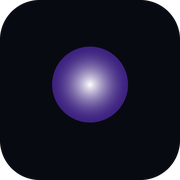
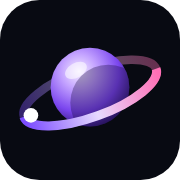
Compartilhamento e marca: imagem de preview com os 4 projetos e planeta novo no header
og.jpg 1200x630 (110 KB) com prints de GateCheck, WSL, Rare7 e FLASH, textos
com acento e o FLASH na descricao. Icone do header em SVG no botao (anel em
degrade, sombra, lua orbitando) e favicon no mesmo desenho.

diff --git a/index.html b/index.html
@@ -5,7 +5,7 @@
 <meta charset="utf-8"/>
 <meta content="width=device-width,initial-scale=1" name="viewport"/>
 <title>Lucas Chacon — Full Stack Developer</title>
-<meta content="Portfolio de Lucas Chacon — desenvolvedor full stack. Web, APIs, mobile, seguranca e produtos em producao." name="description"/>
+<meta content="Portfólio de Lucas Chacon — desenvolvedor full stack. Web, APIs, mobile, segurança e produtos em produção." name="description"/>
 <link href="/favicon.svg" rel="icon" type="image/svg+xml"/>
 <link href="/favicon-32.png" rel="icon" sizes="32x32" type="image/png"/>
 <link href="/apple-touch-icon.png" rel="apple-touch-icon" sizes="180x180"/>
@@ -13,16 +13,18 @@
 <meta content="website" property="og:type"/>
 <meta content="https://portfolio-delta-five-78.vercel.app/" property="og:url"/>
 <meta content="Lucas Chacon — Full Stack Developer" property="og:title"/>
-<meta content="Desenvolvedor full stack. Web, APIs, mobile, seguranca e produtos em producao — GateCheck, WSL Games e Rare7." property="og:description"/>
-<meta content="https://portfolio-delta-five-78.vercel.app/og.png" property="og:image"/>
+<meta content="Desenvolvedor full stack. Web, APIs, mobile, segurança e produtos em produção — GateCheck, WSL Games, Rare7 e FLASH." property="og:description"/>
+<meta content="https://portfolio-delta-five-78.vercel.app/og.jpg" property="og:image"/>
 <meta content="1200" property="og:image:width"/>
 <meta content="630" property="og:image:height"/>
+<meta content="image/jpeg" property="og:image:type"/>
+<meta content="Lucas Chacon, Full Stack Developer, com os projetos GateCheck, WSL Games, Rare7 e FLASH" property="og:image:alt"/>
 <meta content="pt_BR" property="og:locale"/>
 <meta content="Lucas Chacon" property="og:site_name"/>
 <meta content="summary_large_image" name="twitter:card"/>
 <meta content="Lucas Chacon — Full Stack Developer" name="twitter:title"/>
-<meta content="Desenvolvedor full stack. Web, APIs, mobile, seguranca e produtos em producao — GateCheck, WSL Games e Rare7." name="twitter:description"/>
-<meta content="https://portfolio-delta-five-78.vercel.app/og.png" name="twitter:image"/>
+<meta content="Desenvolvedor full stack. Web, APIs, mobile, segurança e produtos em produção — GateCheck, WSL Games, Rare7 e FLASH." name="twitter:description"/>
+<meta content="https://portfolio-delta-five-78.vercel.app/og.jpg" name="twitter:image"/>
 <style>
 
 :root{
@@ -4808,7 +4810,7 @@ html,body{margin:0;min-height:100%;background:#05060b!important}
 <canvas aria-hidden="true" class="universe-stars" id="universeStars"></canvas>
 <a class="pular-para-conteudo" href="#conteudo">Pular para o conteúdo</a>
 <nav>
-<button aria-label="Voltar ao topo" class="brand brand-full" id="brandHome" onclick="window.scrollTo({top:0,behavior:'smooth'})" type="button"><span>LUCAS</span><span>CHACON</span></button>
+<button aria-label="Voltar ao topo" class="brand brand-full" id="brandHome" onclick="window.scrollTo({top:0,behavior:'smooth'})" type="button"><svg class="brand-ico" viewBox="0 0 64 64" aria-hidden="true" focusable="false"><defs><radialGradient id="bi-p" cx="36%" cy="30%" r="75%"><stop offset="0" stop-color="#f4ecff"/><stop offset=".3" stop-color="#c3a2ff"/><stop offset=".68" stop-color="#7a45ee"/><stop offset="1" stop-color="#2c1668"/></radialGradient><linearGradient id="bi-a" x1="0" y1="0" x2="1" y2="0"><stop offset="0" stop-color="#7c4dff"/><stop offset=".5" stop-color="#e6d9ff"/><stop offset="1" stop-color="#ff6fb5"/></linearGradient><clipPath id="bi-c"><circle cx="32" cy="31" r="14"/></clipPath><clipPath id="bi-f"><rect x="0" y="33" width="64" height="31"/></clipPath><path id="bi-o" d="M7 33a25 8.6 0 1 0 50 0a25 8.6 0 1 0 -50 0"/></defs><g class="bi-anel" transform="rotate(-20 32 33)"><ellipse cx="32" cy="33" rx="25" ry="8.6" fill="none" stroke="url(#bi-a)" stroke-width="3" opacity=".38"/></g><circle cx="32" cy="31" r="14" fill="url(#bi-p)"/><circle cx="38.5" cy="36.5" r="13.5" fill="#1a0b40" opacity=".34" clip-path="url(#bi-c)"/><ellipse cx="27" cy="25" rx="4.2" ry="2.6" fill="#fff" opacity=".55" transform="rotate(-30 27 25)"/><g class="bi-anel" transform="rotate(-20 32 33)" clip-path="url(#bi-f)"><ellipse cx="32" cy="33" rx="25" ry="8.6" fill="none" stroke="url(#bi-a)" stroke-width="3.2"/></g><g transform="rotate(-20 32 33)"><circle class="bi-lua" r="2.6" fill="#fff"><animateMotion dur="9s" repeatCount="indefinite" rotate="0"><mpath href="#bi-o"/></animateMotion></circle></g></svg><span>LUCAS</span><span>CHACON</span></button>
 <div class="nav-actions">
 <div class="theme-switcher">
 <button class="theme-choice active" data-theme="editorial">Editorial</button>
@@ -7243,21 +7245,17 @@ if(mount){
 .stack-proof-card small{display:block;margin-bottom:6px}
 .stack-proof-card strong{display:block;font-weight:600}
 
-/* Marca do header passa a usar o mesmo icone do favicon, em vez do monograma:
-   um simbolo so nos dois lugares. */
-#brandHome::before{
-  content:"";
-  width:32px;height:32px;
-  background:url("/favicon.svg") center/contain no-repeat;
-  border:0!important;
-  box-shadow:none!important;
-  border-radius:0;
-}
-#brandHome:hover::before,#brandHome:focus-visible::before{
-  border:0!important;
-  box-shadow:none!important;
-  filter:brightness(1.18);
-}
+/* Marca do header: o planeta do favicon desenhado em SVG no proprio botao
+   (antes era o favicon inteiro de fundo, com o quadrado escuro, e ficava
+   borrado em 32px). Anel em degrade atras e na frente, sombra no lado
+   escuro, e uma lua orbitando. No hover o anel acende. */
+#brandHome::before{content:none!important;display:none!important}
+#brandHome .brand-ico{width:34px;height:34px;flex:0 0 auto;overflow:visible;
+  filter:drop-shadow(0 0 10px rgba(143,92,255,.45));transition:filter .3s ease,transform .5s cubic-bezier(.2,.8,.2,1)}
+#brandHome .bi-lua{filter:drop-shadow(0 0 3px #d9c6ff)}
+#brandHome:hover .brand-ico,#brandHome:focus-visible .brand-ico{filter:drop-shadow(0 0 16px rgba(169,139,255,.8));transform:rotate(-8deg) scale(1.06)}
+@media(max-width:900px){#brandHome .brand-ico{width:28px;height:28px}}
+@media(prefers-reduced-motion:reduce){#brandHome .bi-lua{display:none}}
 
 /* Sem moldura. O site trabalha com objetos iluminados no espaço (os planetas,
    o glow, a profundidade) e a seção de projetos estava usando hardware

diff --git a/docs/og-imagem.html b/docs/og-imagem.html
@@ -1,0 +1,82 @@
+<!doctype html>
+<html><head><meta charset="utf-8">
+<!-- Molde da imagem de compartilhamento (public/og.jpg, 1200x630). Para gerar:
+  "/Applications/Google Chrome.app/Contents/MacOS/Google Chrome" --headless=new --hide-scrollbars \
+    --force-device-scale-factor=1 --window-size=1200,630 --screenshot=og.png "file://$PWD/docs/og-imagem.html"
+  e salve como JPG (qualidade ~88, abaixo de 300 KB por causa do WhatsApp). -->
+<style>
+  :root{--roxo:#a98bff;--roxo2:#6d3bff}
+  *{margin:0;padding:0;box-sizing:border-box}
+  html,body{width:1200px;height:630px;overflow:hidden;background:#07060c}
+  body{position:relative;font-family:"Helvetica Neue",Helvetica,Arial,sans-serif;color:#fff}
+  /* fundo: nebulosa roxa, malha de blueprint e estrelas */
+  .neb{position:absolute;inset:0;
+    background:
+      radial-gradient(600px 420px at 83% 42%,rgba(109,59,255,.55),transparent 70%),
+      radial-gradient(420px 300px at 64% 90%,rgba(255,61,139,.22),transparent 70%),
+      radial-gradient(500px 400px at 8% 0%,rgba(109,59,255,.18),transparent 70%)}
+  .malha{position:absolute;inset:0;opacity:.35;
+    background-image:linear-gradient(rgba(169,139,255,.12) 1px,transparent 1px),linear-gradient(90deg,rgba(169,139,255,.12) 1px,transparent 1px);
+    background-size:40px 40px;
+    -webkit-mask:radial-gradient(900px 600px at 70% 50%,#000 20%,transparent 75%)}
+  .estrelas{position:absolute;inset:0}
+  /* texto */
+  .txt{position:absolute;left:72px;top:92px;width:520px}
+  .selo{display:inline-flex;align-items:center;gap:10px;font:700 14px/1 "Helvetica Neue",Arial;letter-spacing:.28em;color:var(--roxo);
+    padding:9px 14px;border:1px solid rgba(169,139,255,.35);border-radius:999px;background:rgba(109,59,255,.12)}
+  .selo i{width:8px;height:8px;border-radius:50%;background:#2bff8f;box-shadow:0 0 12px #2bff8f}
+  h1{margin-top:26px;font:900 108px/.86 "Helvetica Neue",Arial Black,Arial;letter-spacing:-.045em}
+  h1 span{display:block;background:linear-gradient(95deg,#c7b4ff,#8a5cff 60%,#ff5fa8);-webkit-background-clip:text;color:transparent}
+  .cargo{margin-top:26px;font:800 26px/1 "Helvetica Neue",Arial;letter-spacing:.02em}
+  .pilha{margin-top:14px;font:500 20px/1.3 "Helvetica Neue",Arial;color:rgba(255,255,255,.62)}
+  .url{position:absolute;left:72px;bottom:48px;display:flex;align-items:center;gap:12px;font:600 17px/1 ui-monospace,Menlo,monospace;color:rgba(255,255,255,.55)}
+  .url b{color:#fff;font-weight:700}
+  .url::before{content:"";width:34px;height:2px;background:linear-gradient(90deg,var(--roxo2),transparent)}
+  /* cartas dos projetos em leque */
+  .leque{position:absolute;right:22px;top:0;width:640px;height:630px}
+  .c{position:absolute;border-radius:18px;overflow:hidden;background:#111;
+    box-shadow:0 30px 60px rgba(0,0,0,.6),0 0 0 1px rgba(255,255,255,.12)}
+  .c img{display:block;width:100%;height:100%;object-fit:cover}
+  .c em{position:absolute;left:14px;bottom:12px;font:800 13px/1 "Helvetica Neue",Arial;font-style:normal;letter-spacing:.14em;
+    padding:7px 10px;border-radius:999px;background:rgba(7,6,12,.78);border:1px solid rgba(255,255,255,.18);backdrop-filter:blur(6px)}
+  .gate{width:430px;height:230px;left:118px;top:62px;transform:rotate(-5deg)}
+  .gate em{left:auto;right:14px;top:14px;bottom:auto}
+  .gate img{object-position:0 0}
+  .rare{width:370px;height:196px;left:150px;top:350px;transform:rotate(3deg)}
+  .rare em{left:140px;bottom:16px}
+  .rare img{object-position:50% 45%}
+  .wsl{width:164px;height:292px;left:0px;top:292px;transform:rotate(-9deg);border-radius:24px}
+  .wsl img{object-position:50% 30%}
+  .flash{width:168px;height:318px;left:448px;top:168px;transform:rotate(8deg);border-radius:26px;z-index:3}
+  .flash img{object-position:50% 0}
+  .gate em{color:#c7b4ff}.rare em{color:#e6c46a}.wsl em{color:#5ff0d0}.flash em{color:#ff5a5a}
+  .brilho{position:absolute;left:0;top:0;right:0;bottom:0;pointer-events:none;
+    background:linear-gradient(120deg,rgba(255,255,255,.14),transparent 35%)}
+</style></head>
+<body>
+  <div class="neb"></div><div class="malha"></div>
+  <svg class="estrelas" width="1200" height="630" id="st"></svg>
+  <div class="txt">
+    <div class="selo"><i></i>PORTFÓLIO · RIO DE JANEIRO</div>
+    <h1>LUCAS<span>CHACON</span></h1>
+    <div class="cargo">Full Stack Developer</div>
+    <div class="pilha">Web · APIs · Mobile · Segurança · IA<br>GateCheck · WSL Games · Rare7 · FLASH</div>
+  </div>
+  <div class="url"><span><b>portfolio-delta-five-78</b>.vercel.app</span></div>
+  <div class="leque">
+    <div class="c gate"><img src="../public/assets/projects/gatecheck-1.webp"><div class="brilho"></div><em>GATECHECK</em></div>
+    <div class="c rare"><img src="../public/assets/projects/rare7-1.webp"><div class="brilho"></div><em>RARE7</em></div>
+    <div class="c wsl"><img src="../public/assets/projects/wsl-1.webp"><div class="brilho"></div><em>WSL</em></div>
+    <div class="c flash"><img src="../public/assets/projects/flash-1.webp"><div class="brilho"></div><em>FLASH</em></div>
+  </div>
+<script>
+  // estrelas deterministicas
+  let s = 7; const r = () => (s = (s * 16807) % 2147483647) / 2147483647;
+  const st = document.getElementById('st');
+  for (let i = 0; i < 90; i++) {
+    const c = document.createElementNS('http://www.w3.org/2000/svg', 'circle');
+    c.setAttribute('cx', r() * 1200); c.setAttribute('cy', r() * 630); c.setAttribute('r', r() * 1.2 + .3);
+    c.setAttribute('fill', '#fff'); c.setAttribute('opacity', (r() * .5 + .1).toFixed(2)); st.appendChild(c);
+  }
+</script>
+</body></html>
